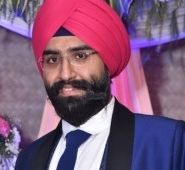
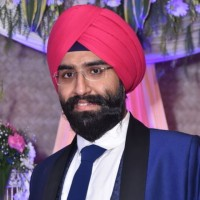
about us

diff --git a/about us/aboutus.html b/about us/aboutus.html
@@ -59,7 +59,7 @@
   	<div class="sirphoto">
   		<img src="sirpic.jpg" class="image1">
   	</div>
-  	<div class="sircontent">Lorem ipsum dolor sit amet, consectetur adipisicing elit, sed do eiusmod
+  	<div class="sircontent">"Lorem ipsum dolor sit amet, consectetur adipisicing elit, sed do eiusmod
   	tempor incididunt ut labore et dolore magna aliqua. Ut enim ad minim veniam,
   	quis nostrud exercitation ullamco laboris nisi ut aliquip ex ea commodo
   	consequat. Duis aute irure dolor in reprehenderit in voluptate velit esse
@@ -67,7 +67,7 @@
   	proident, sunt in culpa qui officia deserunt mollit anim id est laborum. Lorem ipsum dolor sit amet, consectetur adipisicing elit, sed do eiusmod
   	tempor incididunt ut labore et dolore magna aliqua. Ut enim ad minim veniam,
   	quis nostrud exercitation ullamco laboris nisi ut aliquip ex ea commodo
-  	consequat. Duis aute irure dolor in reprehenderit in voluptate velit.</div>
+  	consequat. Duis aute irure dolor in reprehenderit in voluptate velit."</div>
   </div>
   <!-- <div class='col-md-3'></div> -->
   </div>

diff --git a/about us/aboutus.css b/about us/aboutus.css
@@ -73,8 +73,6 @@ html, body {
 .sirphoto{
   
   float: left;
-  border-width: 1px;
-  border-style: solid;
   height: 250px;
   width: 250px;
   margin-top: 50px;
@@ -100,6 +98,9 @@ html, body {
 .image1{
   height: 250px;
   width: 250px;
+  border-width: 2px;
+  border-style: solid;
+  border-radius: 10px;
 }
 
 @media only screen and (max-width:1050px) {
